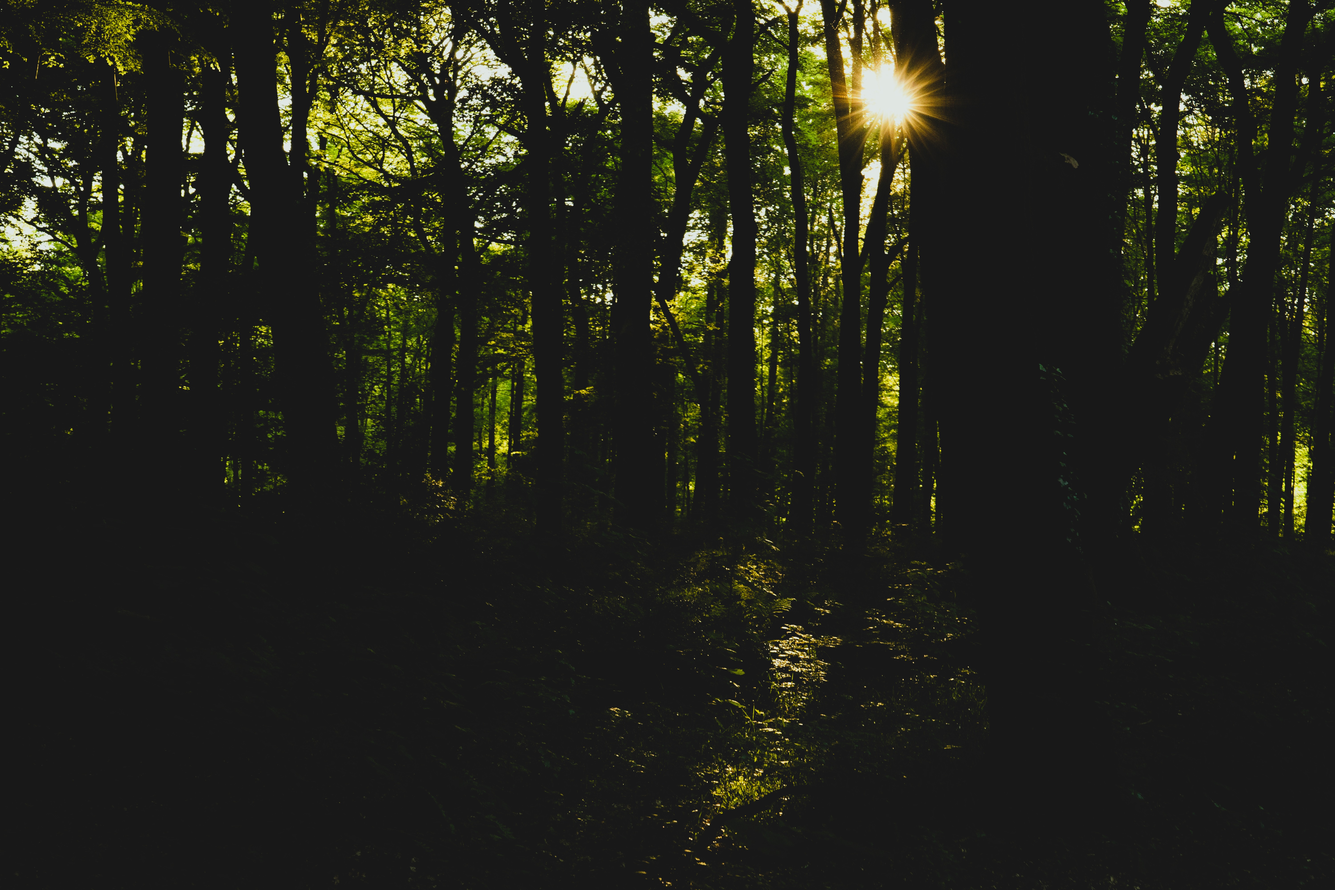
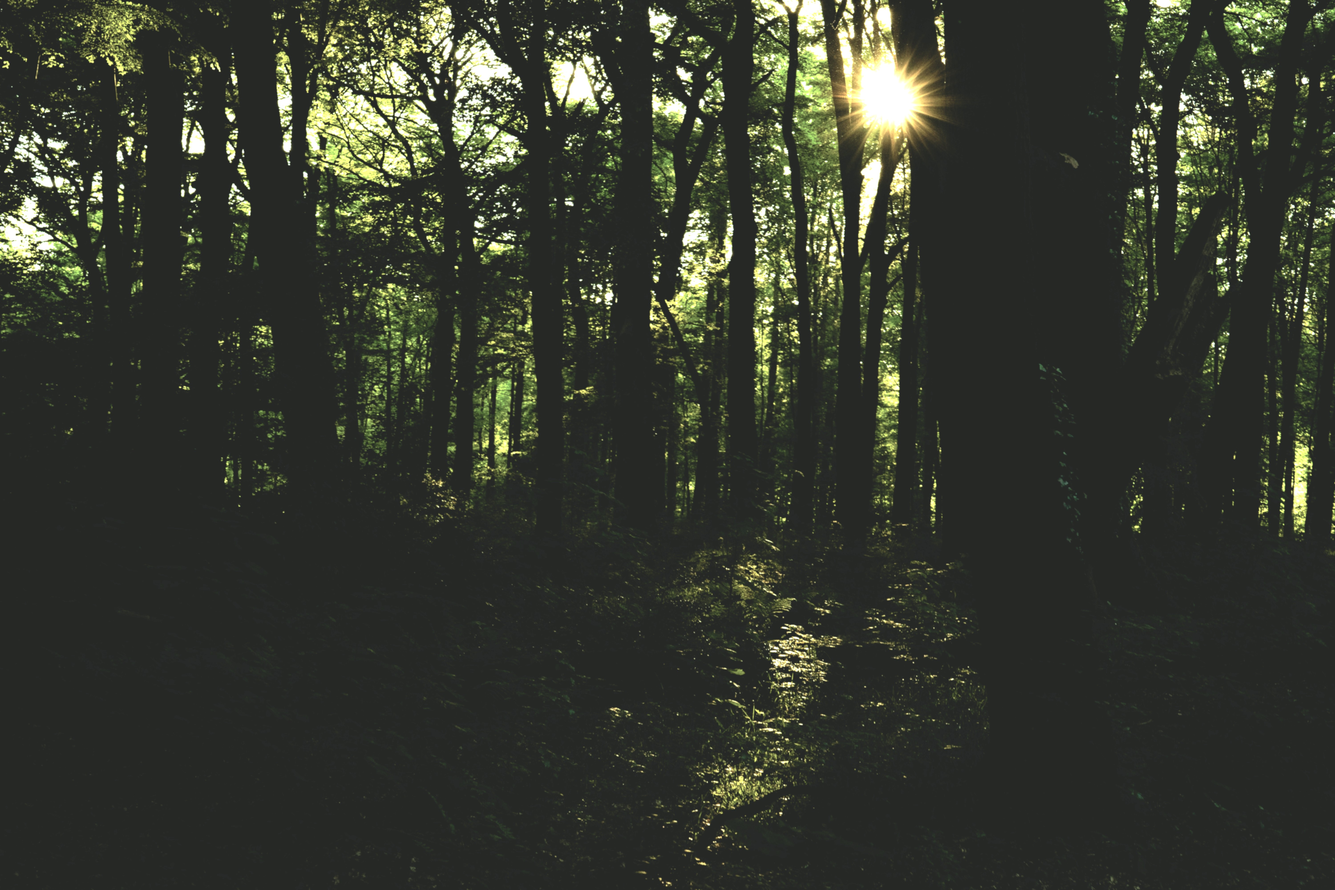
HomePage

diff --git a/apps/web/src/pages/HomePage.tsx b/apps/web/src/pages/HomePage.tsx
@@ -1,16 +1,24 @@
 import { Link } from "react-router-dom"
 import { Button } from "@/components/ui/button"
 import { Upload, Search, CheckCircle, Zap, GraduationCap } from "lucide-react"
-import backgroundWald from "@/components/background_wald.jpg"
+import backgroundWald from "@/components/wald_background.jpg"
 import waldpilzLogo from "@/components/WALDPILZ_Logo (1).png"
 import waldpilzLogoWhite from "@/components/WALDPILZ_Logo_weiß.png"
 
 export default function HomePage() {
   return (
     <div
-      className="min-h-screen bg-background text-foreground bg-cover bg-center bg-fixed"
+      className="min-h-screen bg-background text-foreground bg-cover bg-center bg-fixed relative"
       style={{ backgroundImage: `url(${backgroundWald})` }}
     >
+      {/* Grünliches transparentes Overlay für bessere Lesbarkeit */}
+      <div 
+        className="absolute inset-0 pointer-events-none" 
+        style={{
+          background: "radial-gradient(ellipse 800px 100% at center, rgba(100,150,100,0.35), transparent)"
+        }}
+      />
+      <div className="relative z-10">
       {/* Header */}
       <header className="border-b-4 border-border bg-card">
         <div className="container mx-auto px-4 py-4 flex items-center justify-between">
@@ -31,7 +39,7 @@ export default function HomePage() {
       <section className="py-20 px-4">
         <div className="container mx-auto max-w-4xl text-center">
           <div className="opacity-0">Startseite</div>
-          <h1 className="text-5xl md:text-7xl font-extrabold mb-6 tracking-tighter text-balance">
+          <h1 className="text-5xl md:text-7xl font-extrabold mb-6 tracking-tighter text-balance text-white">
             Spezialisierte <span className="text-yellow-300">KI-Erkennung</span>
           </h1>
           
@@ -56,7 +64,7 @@ export default function HomePage() {
       </section>
 
       {/* Projekt Einführung */}
-      <section className="py-16 px-4 bg-secondary/30 border-y-4 border-border">
+      <section className="py-16 px-4">
         <div className="container mx-auto max-w-4xl">
           <div className="flex flex-col md:flex-row items-center gap-8">
             <div className="size-20 shrink-0 rounded-2xl bg-primary flex items-center justify-center">
@@ -152,6 +160,7 @@ export default function HomePage() {
           </div>
         </div>
       </footer>
+      </div>
     </div>
   )
 }
